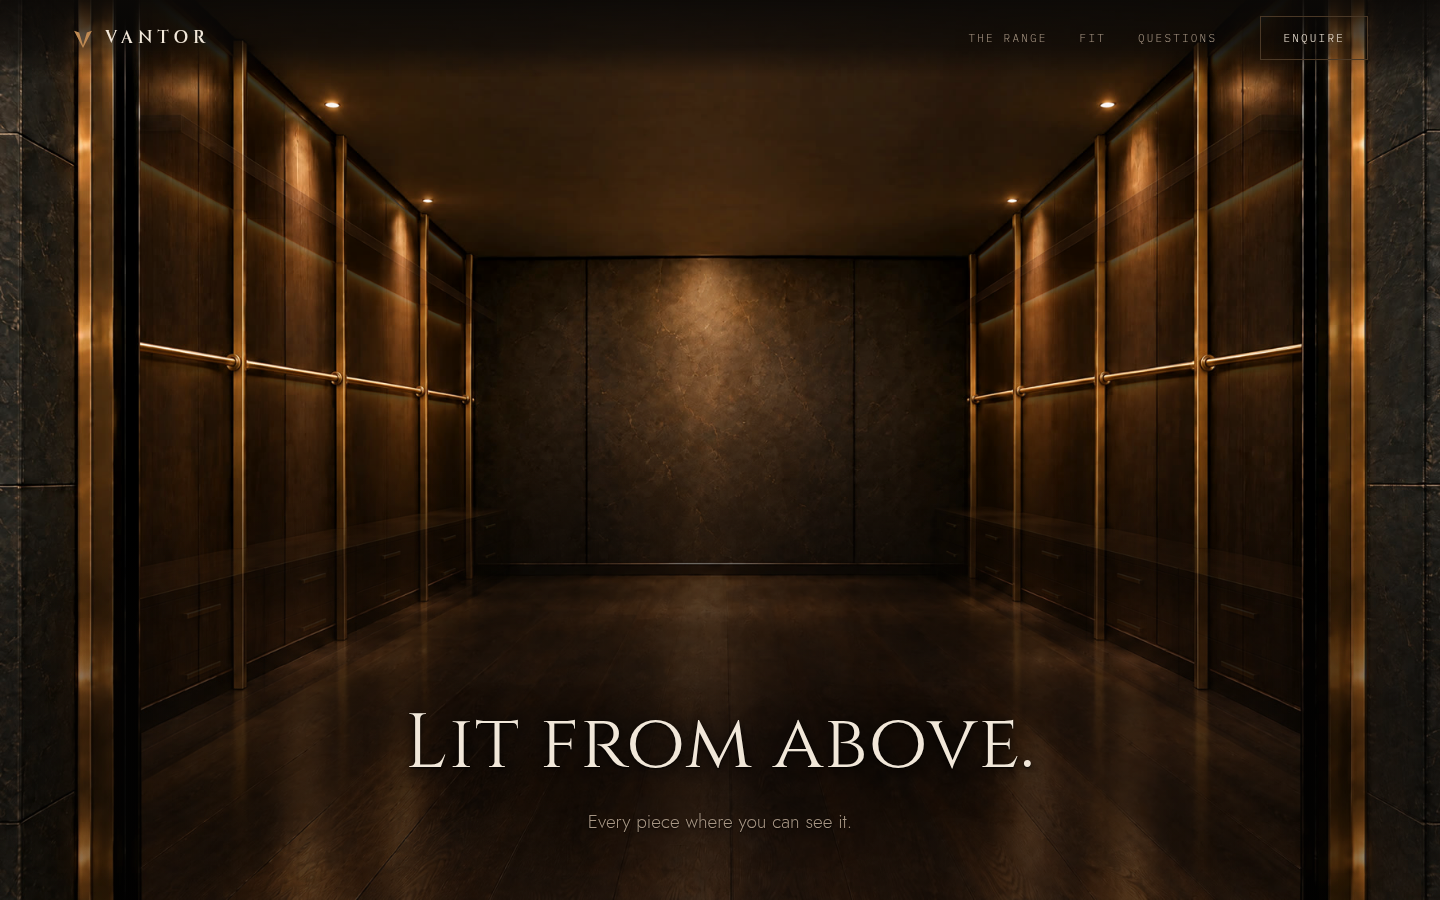
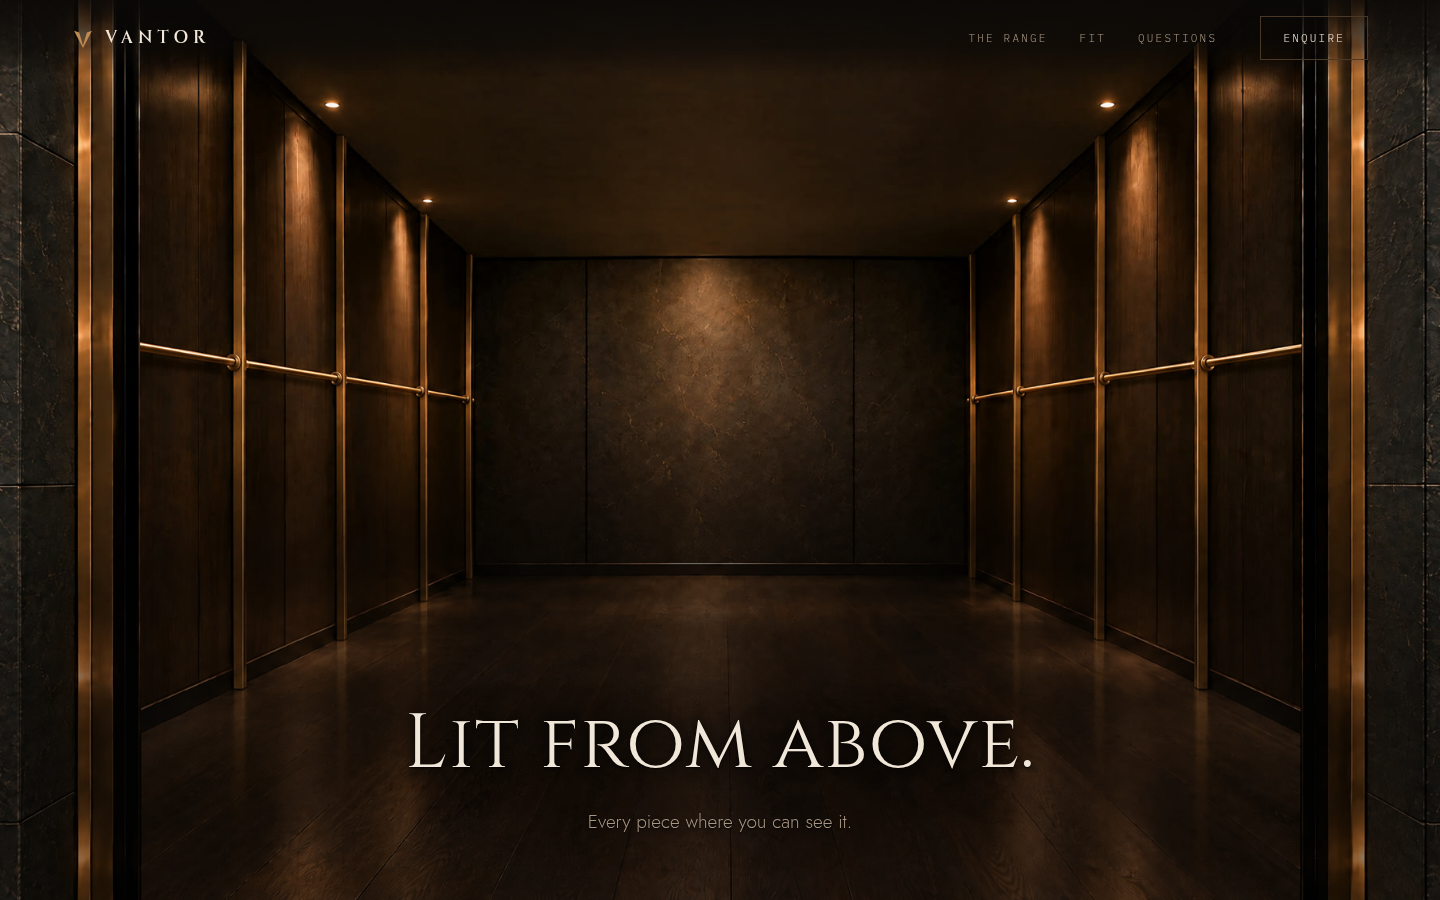
Make the wardrobe build, rather than cross fade between stills
The owner wanted things to move: the room dropping in, the brass growing up
from the floor, the wardrobe spanning out, the jackets hung one at a time. A
cross fade between five photographs is none of those.

Every stage is the same room and every later one contains everything from the
earlier ones, so a later stage can be WIPED in over the one below and only the
new part appears. The brass therefore grows out of the floor rather than fading
on, and the jackets arrive along the rails rather than all at once. The lighting
stage is the one genuine fade, because light coming up changes the whole frame
at once. The room itself drops into place on a translate before any of it
starts.

Two things this exposed:

- The wipe stages carry opacity 1 and are shaped only by their clip, so a clip
  that is not fully closed at rest leaves them visible. With the head start
  described below written into CSS, the fully lit jacket filled room showed
  through the middle of the frame from the very first scroll as a bright band.
  The reveal is now computed in JS, which can close it properly at zero.
- A linear sideways wipe is wrong for this shot. The centre of a one point
  perspective is the far END WALL, which carries no fittings and no jackets, so
  a linear wipe spends its first third on bare wall and then rushes everything
  in at the end. The first 15 percent of each beat now crosses that empty middle
  and the remaining 85 percent is spent where there is something to reveal.
[…]

diff --git a/site/index.html b/site/index.html
@@ -222,14 +222,32 @@ a{color:inherit}
 .street-veil{position:absolute;inset:0;background:radial-gradient(48% 42% at 52% 56%,
   rgba(6,5,4,0) 0%,rgba(6,5,4,.5) 58%,rgba(6,5,4,.96) 100%)}
 
-.act-room{z-index:2;opacity:0}
-/* The five stages are the same photograph of the same room at five points in its
-   build, stacked and cross faded. The camera never moved between them, so the
-   dissolve reads as the wardrobe assembling rather than as five different rooms. */
+.act-room{z-index:2;opacity:0;will-change:transform,opacity}
+
+/* The five stages are the same room photographed at five points in its build,
+   and every later stage contains everything from the earlier ones. Because the
+   camera never moved, a later stage can be WIPED in over the one below rather
+   than dissolved, and only the new part appears. That is what makes the brass
+   grow out of the floor instead of fading on. The lighting stage is the one
+   exception: light coming up is a change across the whole frame, so that one
+   genuinely is a fade. */
 .stageimg{position:absolute;inset:0;background-size:cover;background-position:center;
-  opacity:0;will-change:opacity}
+  will-change:clip-path,opacity}
+
+/* 0: the room itself, always present underneath */
 .stageimg[data-stage="0"]{opacity:1}
 
+/* 1: the brass posts grow from the floor to the ceiling */
+.stageimg[data-stage="1"]{opacity:1;clip-path:inset(var(--y,100%) 0 0 0)}
+
+/* 2: the rails span outward from the far wall toward you */
+.stageimg[data-stage="2"]{opacity:1;clip-path:inset(0 var(--x,50%) 0 var(--x,50%))}
+
+/* 3: the lights come up, which is a change across the whole frame, so it fades */
+.stageimg[data-stage="3"]{opacity:var(--o,0)}
+
+/* 4: the jackets go up one after another, from the far end of each rail forward */
+.stageimg[data-stage="4"]{opacity:1;clip-path:inset(0 var(--x,50%) 0 var(--x,50%))}
 
 /* ============================================================
    THE DETAIL VIEW
@@ -499,31 +517,31 @@ body.paused *,body.paused *::before,body.paused *::after{animation-play-state:pa
 
     <div class="scrim" aria-hidden="true"></div>
 
-    <div class="band" id="b1" data-a="0" data-b="0.16">
+    <div class="band" id="b1" data-a="0" data-b="0.14">
       <div class="inner">
         <h2 data-split="word"><span class="vh">Nobody grows into bold.</span><span class="vis" aria-hidden="true">Nobody grows into bold.</span></h2>
         <p class="sub">You walk in and put it on.</p>
       </div>
     </div>
 
-    <div class="band" id="b2" data-a="0.34" data-b="0.52">
+    <div class="band" id="b2" data-a="0.28" data-b="0.46">
       <div class="inner">
         <h2 data-split="char"><span class="vh">Brass, floor to ceiling.</span><span class="vis" aria-hidden="true">Brass, floor to ceiling.</span></h2>
         <p class="sub">Built in, not bolted on.</p>
       </div>
     </div>
 
-    <div class="band" id="b3" data-a="0.58" data-b="0.76">
+    <div class="band" id="b3" data-a="0.58" data-b="0.74">
       <div class="inner">
         <h2 data-split="word"><span class="vh">Lit from above.</span><span class="vis" aria-hidden="true">Lit from above.</span></h2>
         <p class="sub">Every piece where you can see it.</p>
       </div>
     </div>
 
-    <div class="band" id="b4" data-a="0.81" data-b="1">
+    <div class="band" id="b4" data-a="0.80" data-b="1">
       <div class="inner">
         <h2 data-split="word"><span class="vh">Eleven jackets.</span><span class="vis" aria-hidden="true">Eleven jackets.</span></h2>
-        <p class="sub">Take your time.</p>
+        <p class="sub">Hung one at a time.</p>
         <div class="row"><a class="btn btn-solid" href="#range">See them all</a></div>
       </div>
     </div>
@@ -816,14 +834,43 @@ function put(el, prop, val, key){
   el.style[prop] = val;
 }
 
-var STAGE_AT = [0.24, 0.42, 0.56, 0.70, 0.88];
-var lastStageOp = [];
+/* Where each stage builds, and how. Stage 0 is the room, which falls into place
+   rather than being revealed. */
+var STAGE_BUILD = [
+  null,                 /* 0 the room itself */
+  [0.26, 0.46],         /* 1 brass grows up */
+  [0.46, 0.60],         /* 2 rails span out */
+  [0.60, 0.74],         /* 3 lights come up */
+  [0.76, 0.96]          /* 4 jackets go up one by one */
+];
+var lastR = [];
+
+/* How far open a sideways wipe is, as the inset from each edge.
+   In this one point perspective the centre of the frame is the far END WALL,
+   which carries no fittings and no jackets. A linear wipe therefore spends its
+   first third on bare wall and then rushes everything in at the end. So the
+   first slice of the beat crosses that empty middle quickly, and the rest of it
+   is spent on the part that actually has something to reveal. */
+function wipeInset(r){
+  var half = (r <= 0.15) ? (r/0.15) * 17 : 17 + ((r-0.15)/0.85) * 33;
+  return (50 - half).toFixed(2) + '%';
+}
 
 function drawRoom(p){
-  for(var i=0;i<stageEls.length;i++){
-    var op = (i === 0) ? 1 : smoothstep(p, STAGE_AT[i-1], STAGE_AT[i]);
-    var v = op.toFixed(3);
-    if(lastStageOp[i] !== v){ lastStageOp[i] = v; stageEls[i].style.opacity = v; }
+  for(var i=1;i<stageEls.length;i++){
+    var w = STAGE_BUILD[i];
+    var r = smoothstep(p, w[0], w[1]);
+    var el = stageEls[i], v;
+    if(i === 1){                       /* grows upward out of the floor */
+      v = (100 - r*100).toFixed(2) + '%';
+      if(lastR[i] !== v){ lastR[i] = v; el.style.setProperty('--y', v); }
+    } else if(i === 3){                /* the lights, a straight fade */
+      v = r.toFixed(3);
+      if(lastR[i] !== v){ lastR[i] = v; el.style.setProperty('--o', v); }
+    } else {                           /* wipes outward from the far wall */
+      v = wipeInset(r);
+      if(lastR[i] !== v){ lastR[i] = v; el.style.setProperty('--x', v); }
+    }
   }
 }
 
@@ -834,8 +881,10 @@ function drawJourney(p){
   put(street,'opacity',(1 - smoothstep(p,0.16,0.26)).toFixed(3),'so');
   put(streetVeil,'opacity',(0.3+t1*0.7).toFixed(3),'sv');
 
-  /* ACT 2, inside, the wardrobe building itself */
-  put(room,'opacity',smoothstep(p,0.14,0.24).toFixed(3),'ro');
+  /* ACT 2, the room drops into place, then builds itself */
+  var drop = smoothstep(p, 0.12, 0.26);
+  put(room,'opacity',drop.toFixed(3),'ro');
+  put(room,'transform','translateY(' + ((1-drop) * -16).toFixed(2) + '%)','rt');
   drawRoom(p);
 
   var cueEl = $('#cue');
@@ -907,7 +956,7 @@ function enableScrub(){
   window.addEventListener('scroll', onScroll, { passive:true });
   bands.forEach(function(b2){ b2.op = -1; b2.k = -1; });
   lastVal = {};
-  lastStageOp = [];
+  lastR = [];
   unpinFinalStates();
   updateCaptions(heroProgress());
   onScroll();
